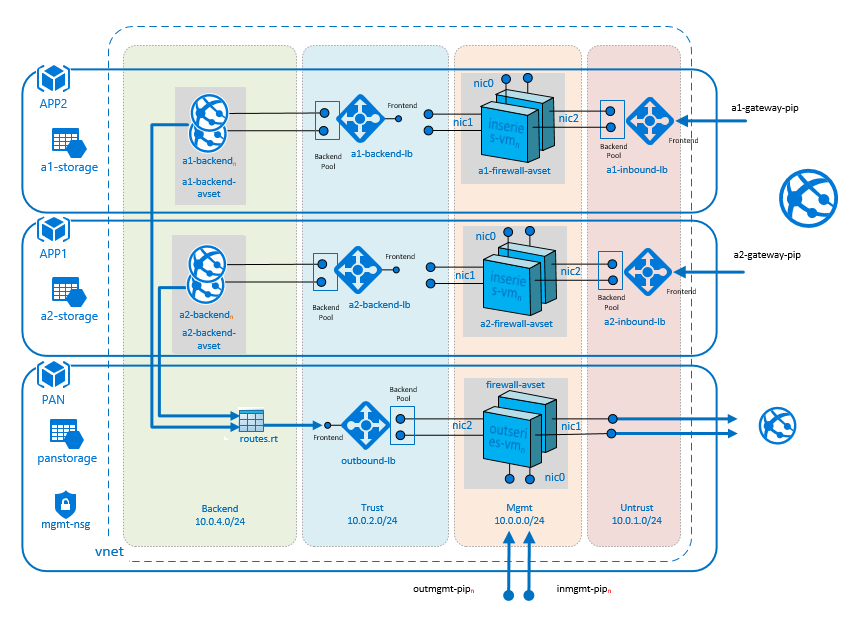
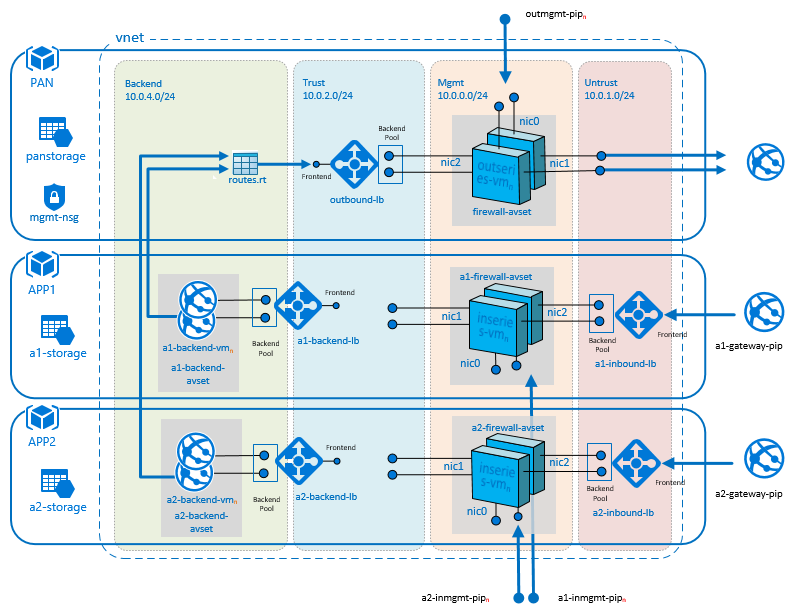
update repo location and arch diagram

diff --git a/README.md b/README.md
@@ -1,4 +1,4 @@
-# Using VM-Series Firewalls and the Azure Application Gateway to Secure Internet-Facing Web Workloads
+# Using VM-Series Firewalls to Secure Internet-Facing Web Workloads
 
 ![VM Series Firewall](https://raw.githubusercontent.com/fullscale180/PAN/master/archdiagram.png "VM Series Firewall")
 
